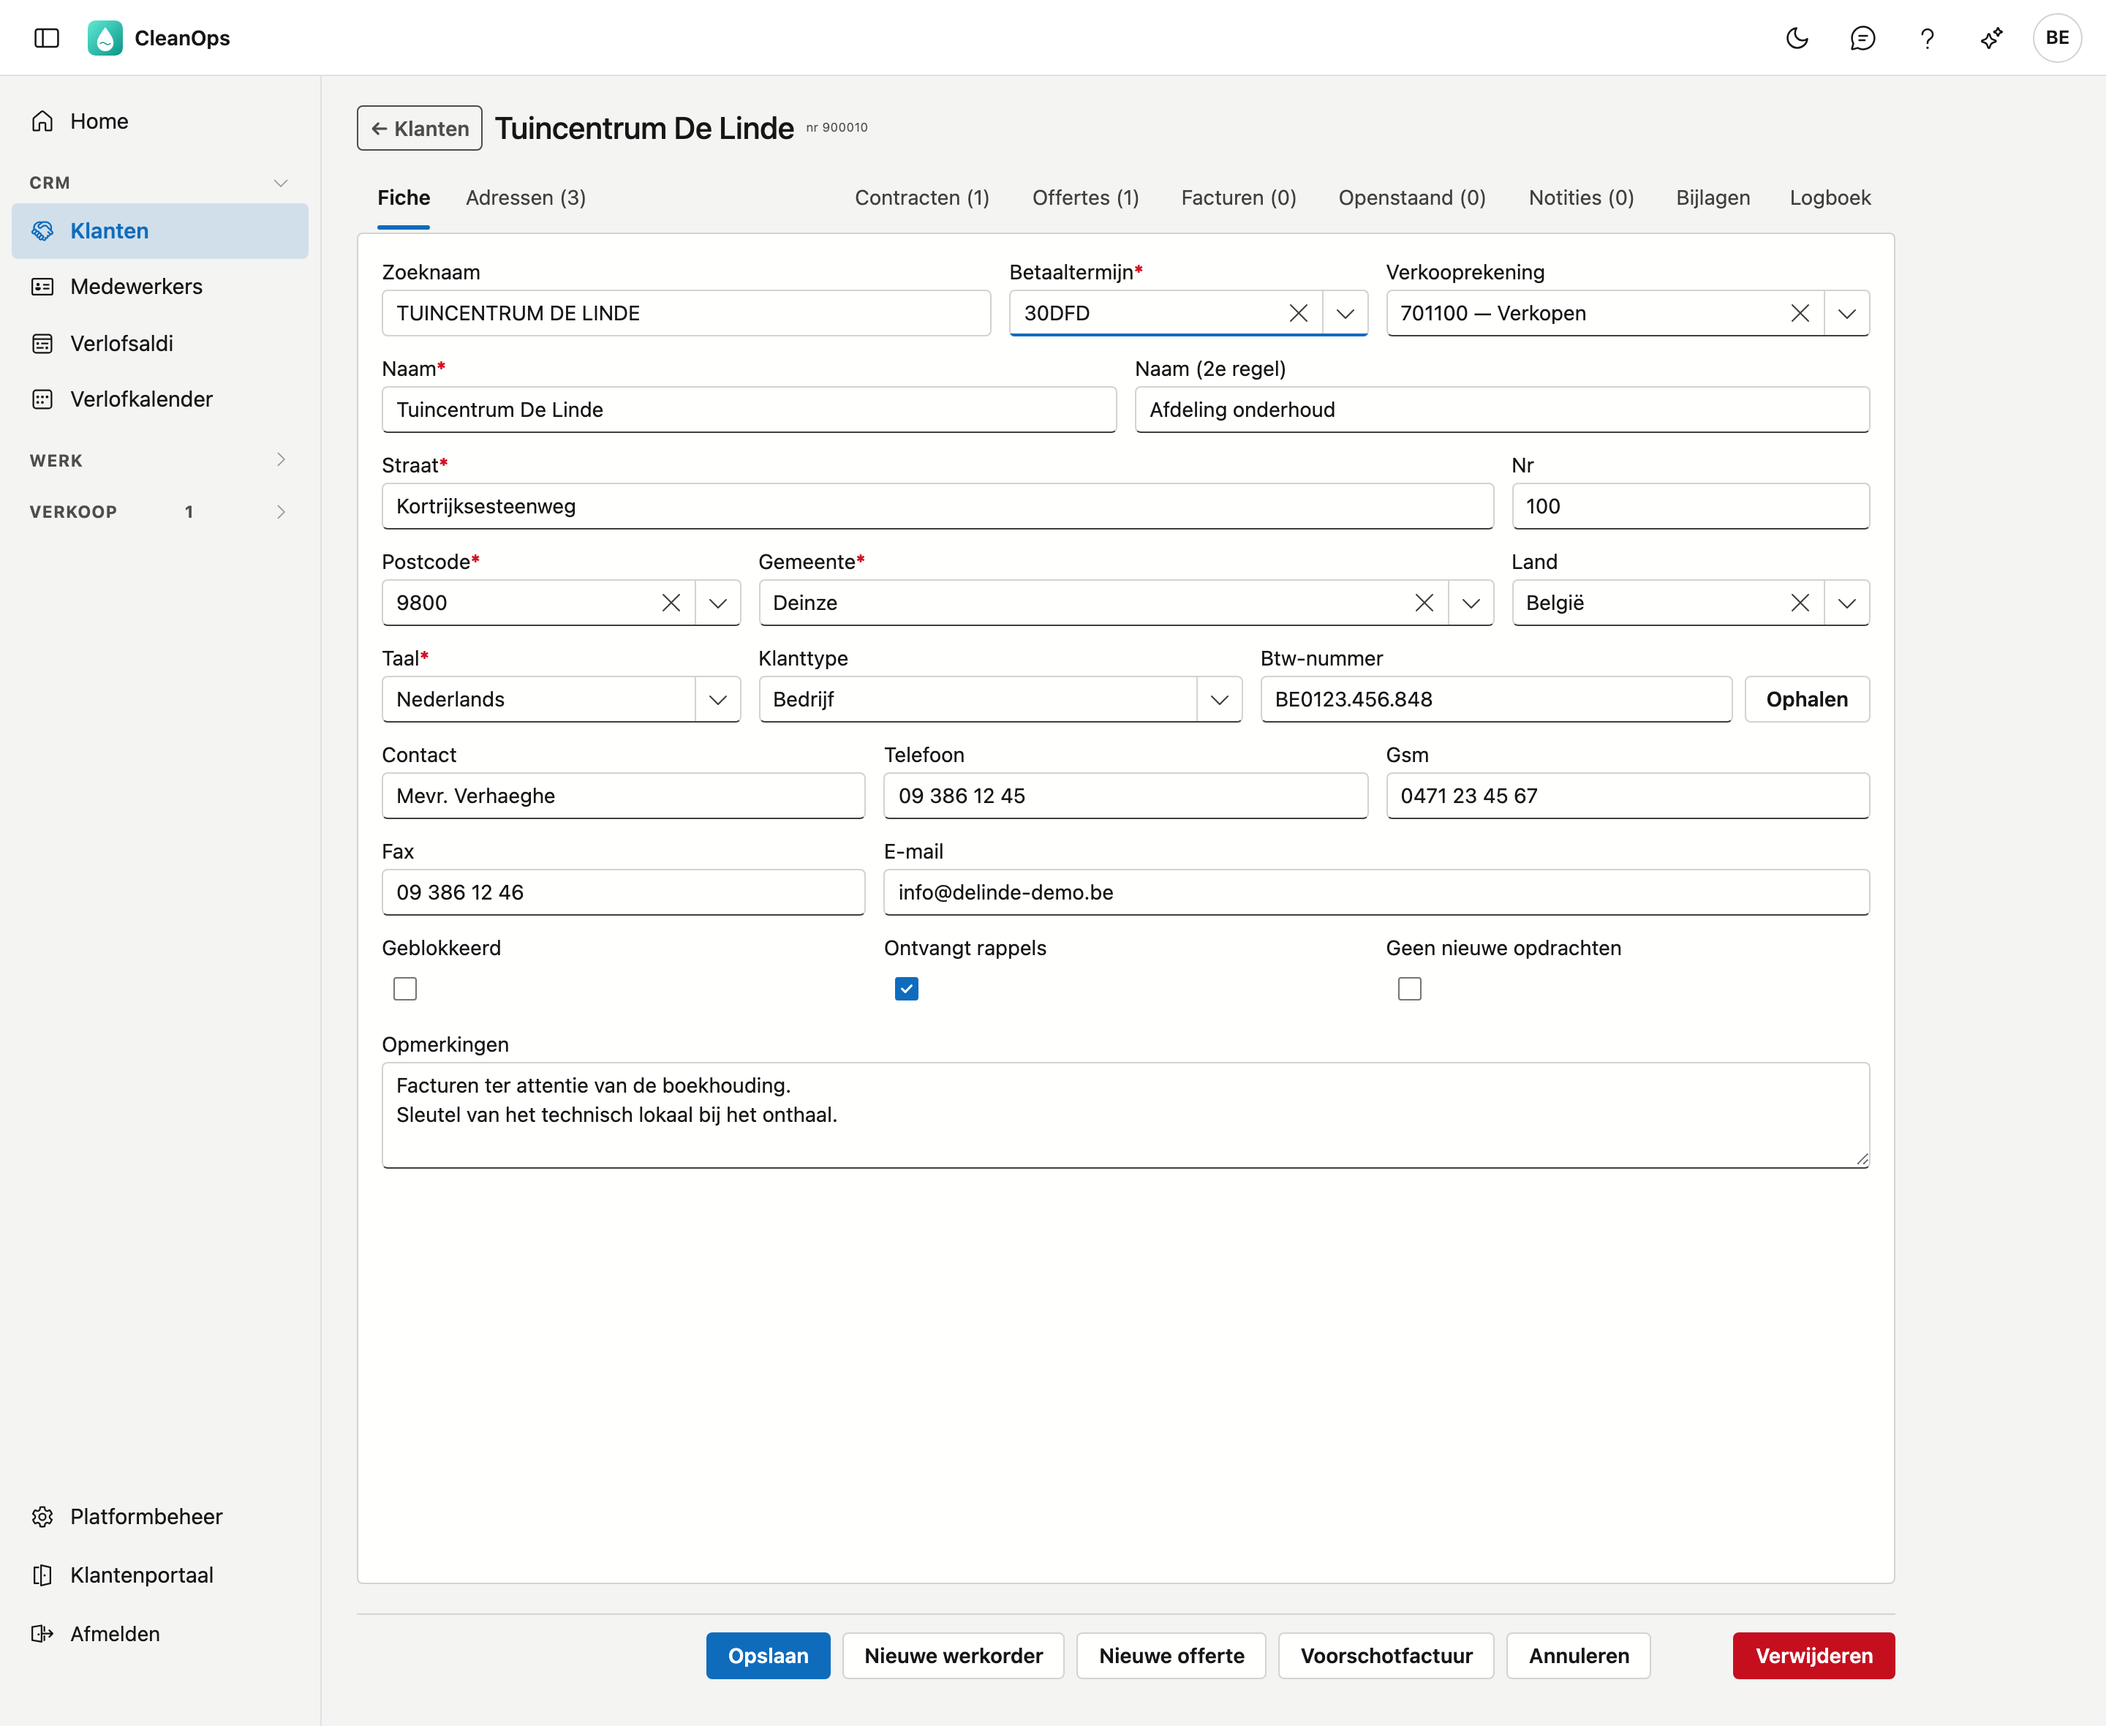
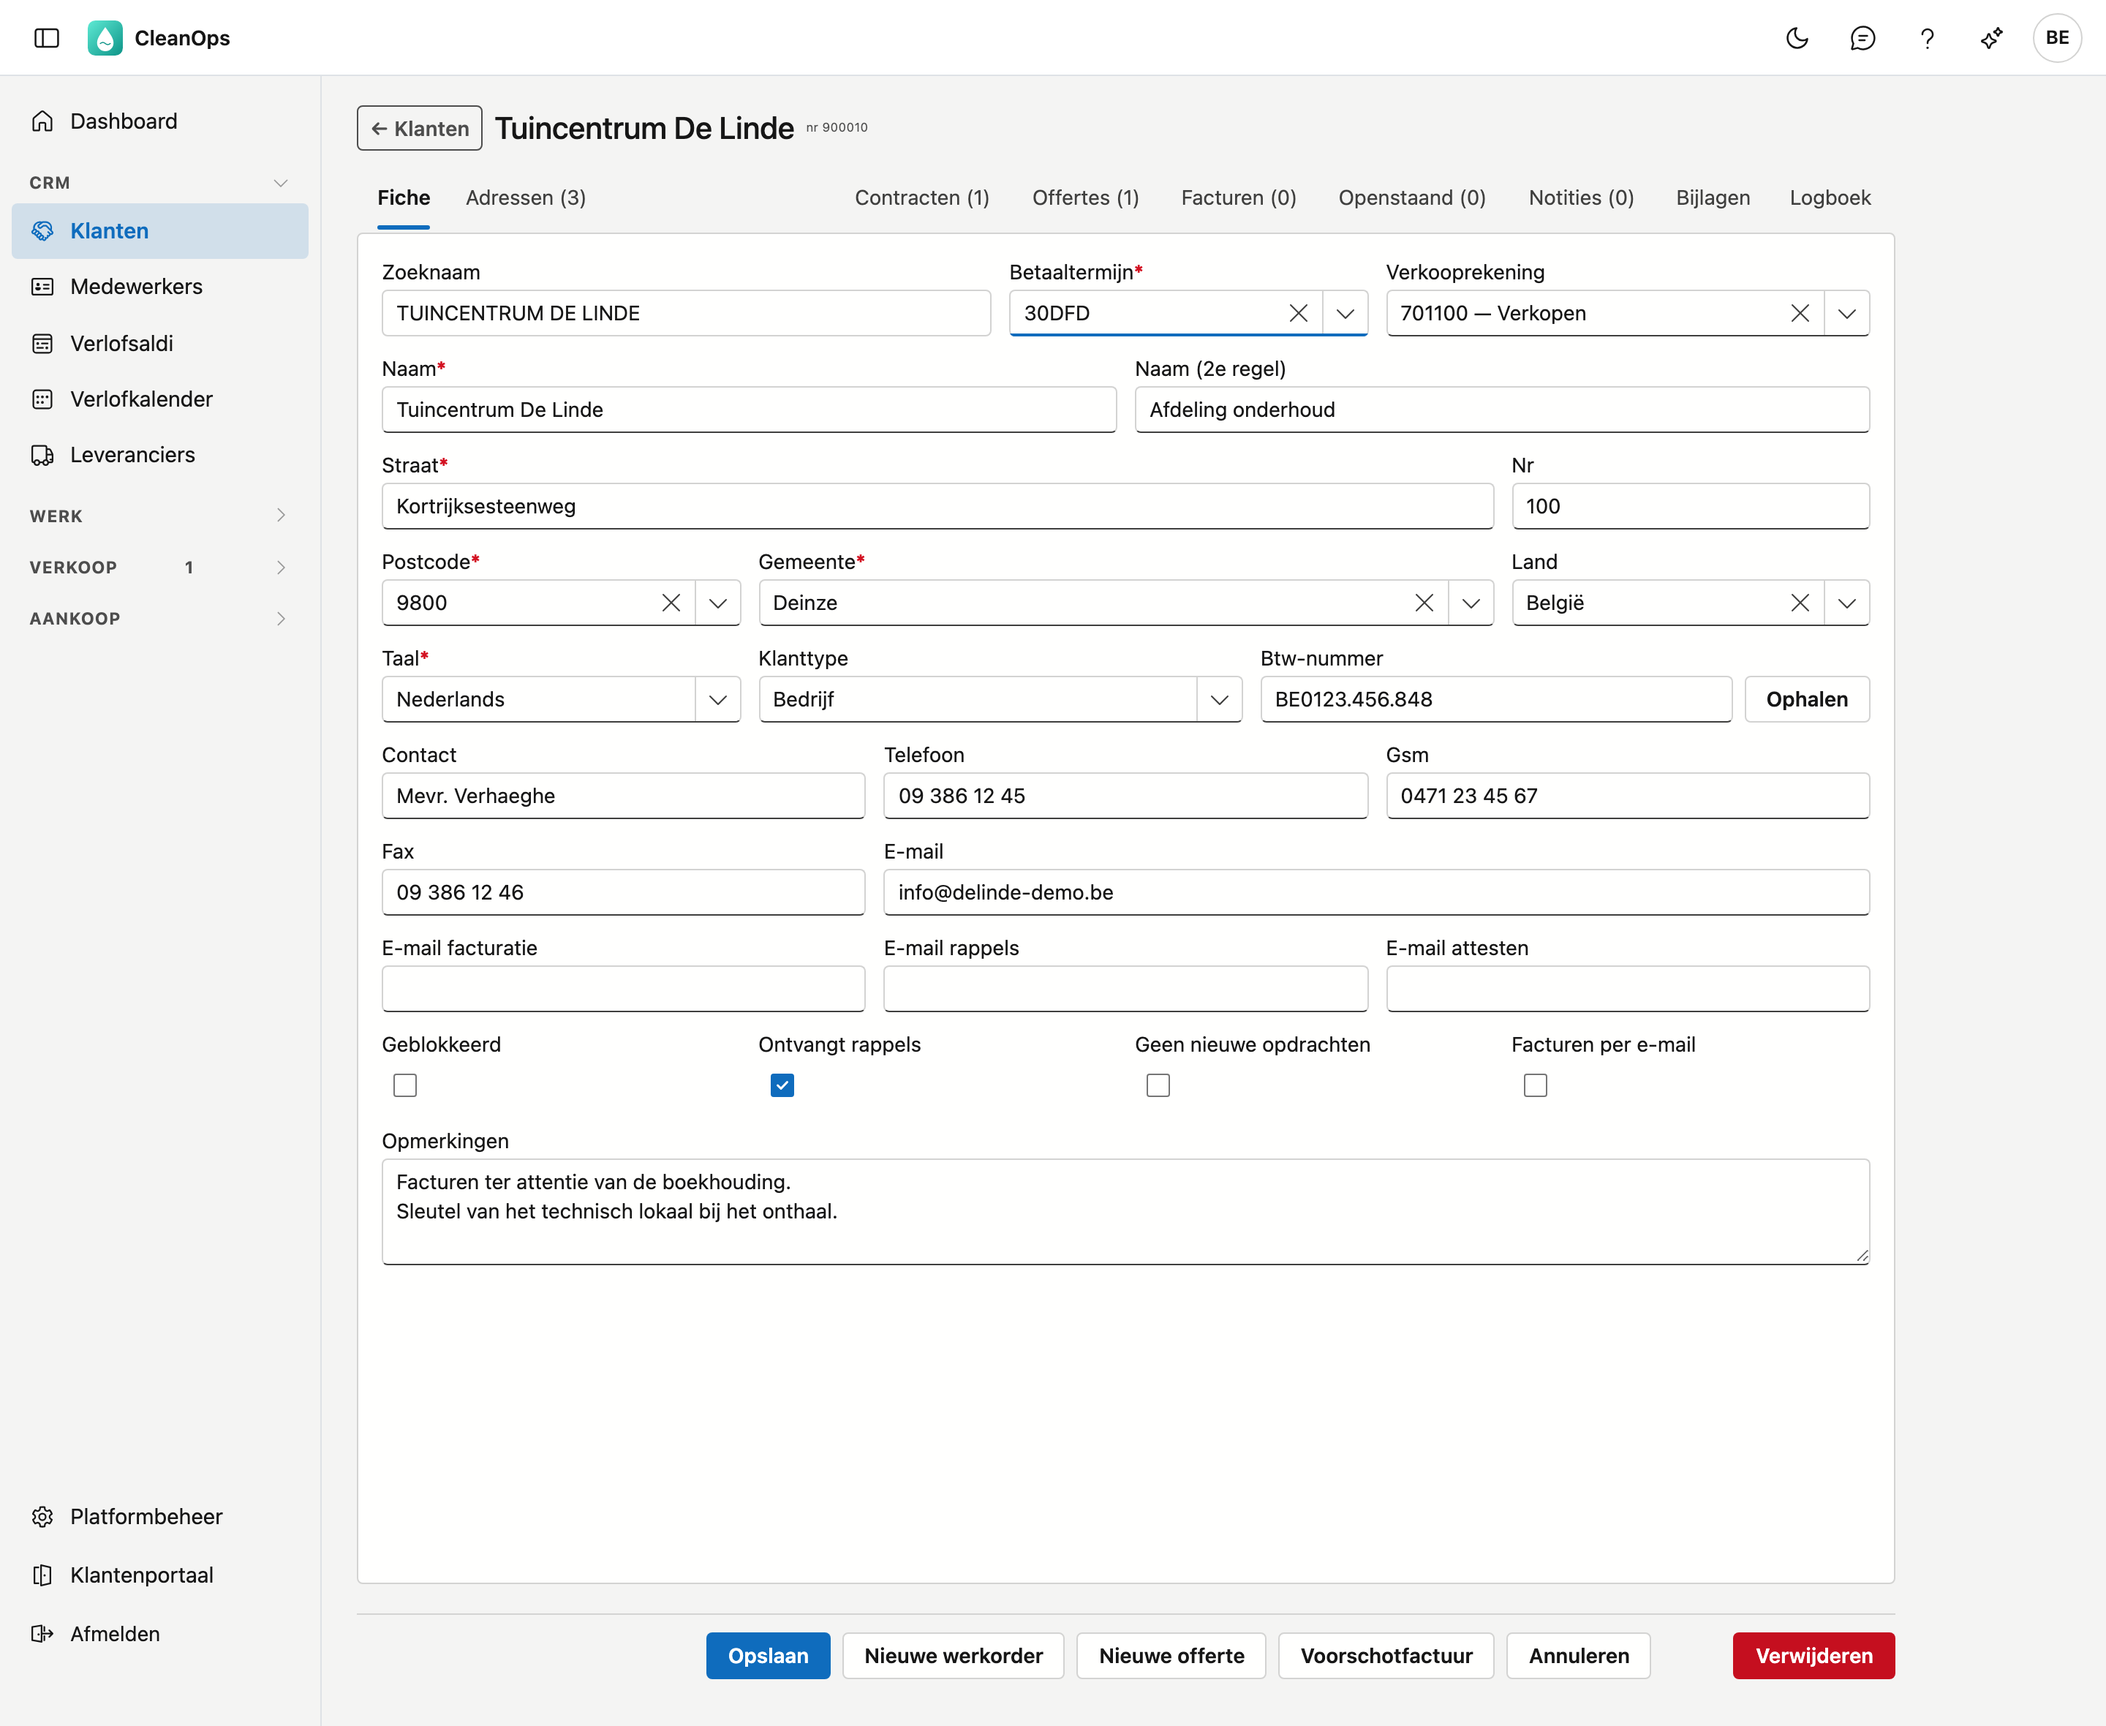
Klanten: e-mail facturatie, rappels, attesten en 'facturen per e-mail' (NL/FR), beelden van de fiche opnieuw

diff --git a/docs/klanten.fr.md b/docs/klanten.fr.md
@@ -57,9 +57,11 @@ signifie donc qu'il n'y a pas de devis.
 | Numéro de TVA | Un numéro belge est vérifié sur son chiffre de contrôle. **Rechercher** remplit le nom et l'adresse depuis la BCE ; ce que la BCE ne connaît pas reste tel quel. |
 | Contact | La personne de contact chez le client. |
 | Téléphone, GSM, Fax, E-mail | Un numéro de téléphone, de GSM ou une adresse e-mail doit être valide ; le fax non. |
+| E-mail facturation, E-mail rappels, E-mail attestations | Une adresse distincte pour les factures, les rappels et les attestations, si elle diffère de l'adresse e-mail ci-dessus. Chaque champ contient une seule adresse valide. |
 | Bloqué | Le client reste utilisable, mais figure avec une étiquette dans la liste et se remarque dans la planification. CleanOps le signale lors d'un nouvel ordre de travail. |
 | Reçoit des rappels | Désactivez ceci pour un client que vous ne souhaitez pas relancer. |
 | Pas de nouvelles missions | Lors d'un nouvel ordre de travail pour ce client, CleanOps demande d'abord une confirmation. |
+| Factures par e-mail | Le client préfère recevoir ses factures par e-mail plutôt que par courrier. |
 | Remarques | Du texte libre sur le client, comme les coordonnées de personnes ou des accords. |
 
 Cliquez sur **Enregistrer** pour sauvegarder. S'il manque un champ obligatoire, CleanOps indique lequel. Une

diff --git a/docs/klanten.md b/docs/klanten.md
@@ -56,9 +56,11 @@ betekent dus dat er geen offertes zijn.
 | Btw-nummer | Een Belgisch nummer wordt op zijn controlecijfer getoetst. Met **Ophalen** vult CleanOps de naam en het adres in uit de KBO; wat de KBO niet kent, blijft staan zoals het was. |
 | Contact | De contactpersoon bij de klant. |
 | Telefoon, Gsm, Fax, E-mail | Een telefoonnummer, gsm-nummer of e-mailadres moet geldig zijn; de fax niet. |
+| E-mail facturatie, E-mail rappels, E-mail attesten | Een apart adres voor facturen, rappels en attesten, als dat een ander is dan het e-mailadres hierboven. Elk veld bevat één geldig adres. |
 | Geblokkeerd | De klant blijft gewoon bruikbaar, maar staat met een label in de lijst en valt op in de planning. Bij een nieuwe werkorder meldt CleanOps het. |
 | Ontvangt rappels | Zet dit af voor een klant die u niet wilt aanmanen. |
 | Geen nieuwe opdrachten | Bij een nieuwe werkorder voor deze klant vraagt CleanOps eerst een bevestiging. |
+| Facturen per e-mail | De klant ontvangt zijn facturen liever per e-mail dan per post. |
 | Opmerkingen | Vrije tekst bij de klant, zoals contactgegevens van personen of afspraken. |
 
 Klik op **Opslaan** om te bewaren. Ontbreekt er een verplicht veld, dan zegt CleanOps welk. Een e-mailadres,
